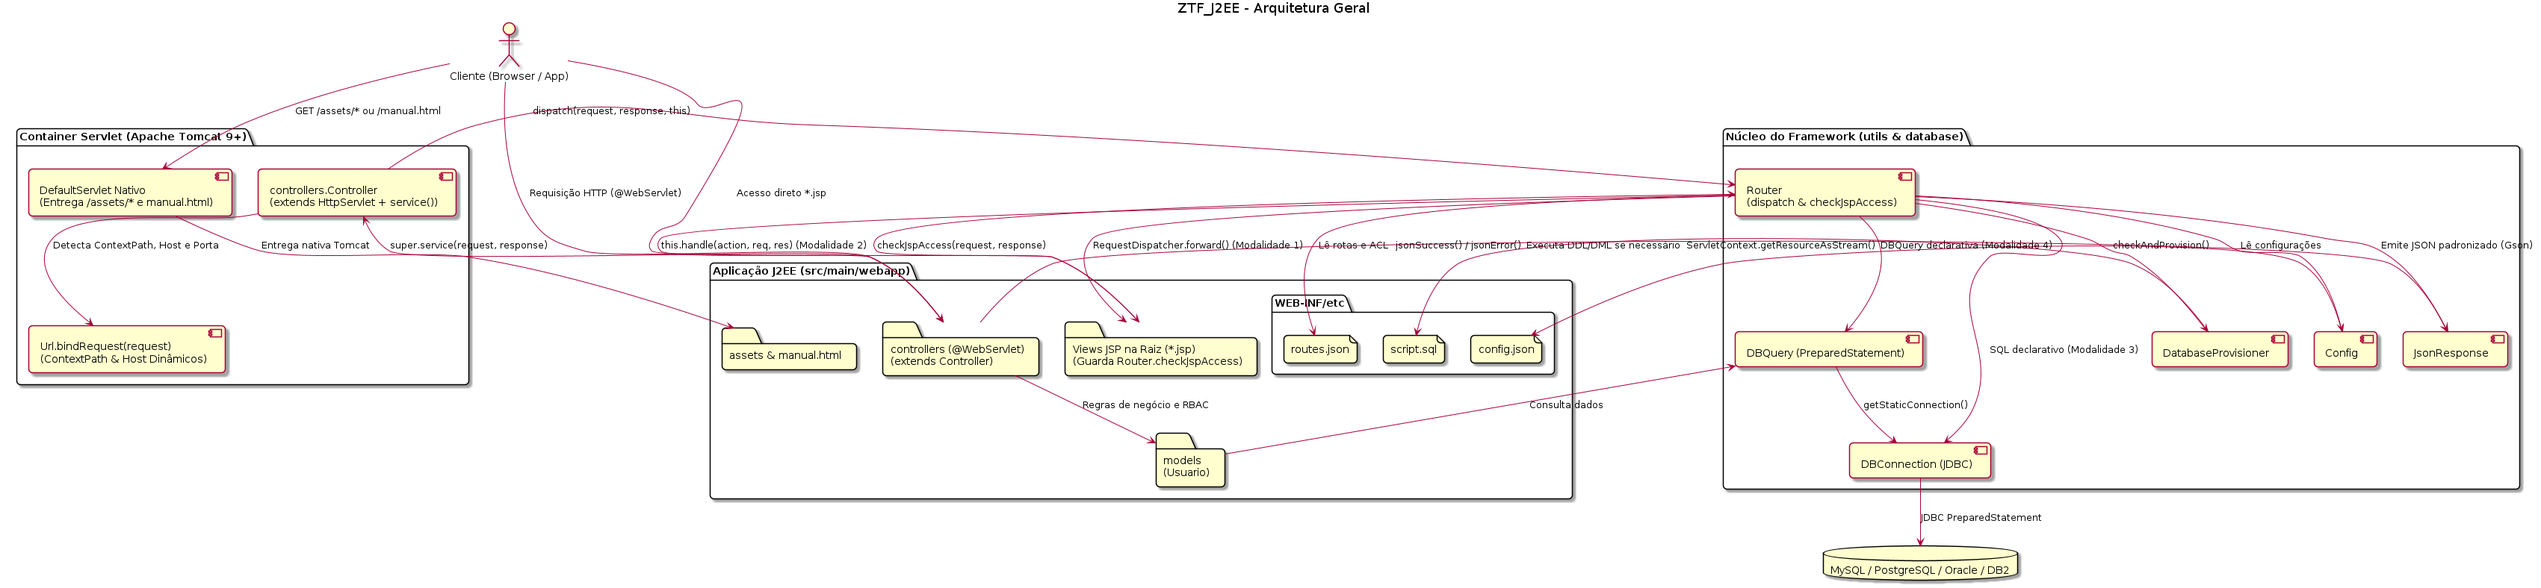
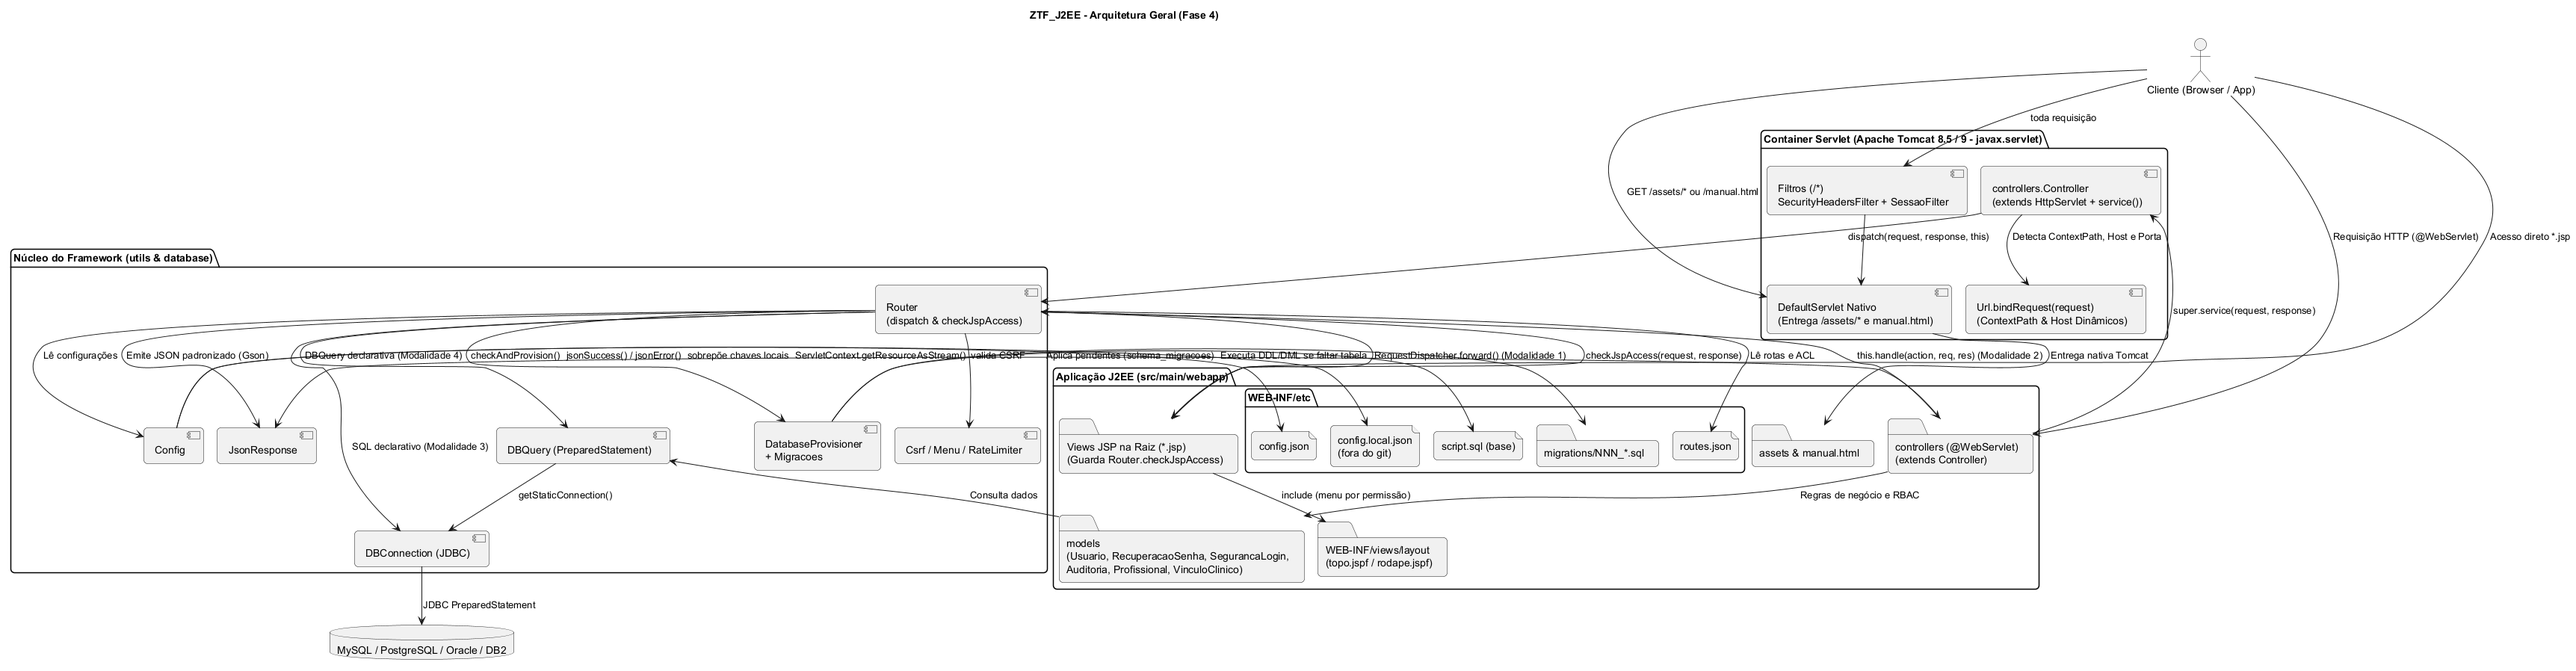
docs(fase4): diagramas do Router, autenticacao, arquitetura, classes e RBAC
- Router.puml: filtros, cache de rotas, CSRF, primeiro acesso, CORS, 500 generico
- Session_ACL.puml: sequencia de login com limite por IP, bloqueio, tempo
  equalizado, session fixation, CSRF, primeiro acesso e recarga da ACL
- Architecture, Classes_Map, Permissoes_RBAC e Banco_ER atualizados
- README: compatibilidade Tomcat 8.5/9 e JDK 21

diff --git a/README.md b/README.md
@@ -71,3 +71,9 @@ java -jar target/tools/plantuml-1.2024.7.jar -Playout=smetana -tpng -o ../../ass
 posterior em tabela existente (`ALTER TABLE`, índice, ajuste de dados) deve virar um arquivo novo em
 `WEB-INF/etc/migrations/NNN_descricao.sql`. O `DatabaseProvisioner` aplica cada arquivo uma única vez,
 em ordem, e registra em `schema_migracoes`. Nunca edite uma migração já aplicada: crie outra.
+
+### Tomcat compatível
+O projeto usa `javax.servlet` (Servlet 3.1+): funciona no **Tomcat 8.5 e 9**, rodando com **JDK 21**.
+Não funciona no Tomcat 10+ (que usa `jakarta.servlet`). No Tomcat 8.5 as JSPs são compiladas com
+sintaxe Java 7 por padrão; por isso o código das JSPs evita recursos mais novos (ex.: `new ArrayList<>()`
+dentro de expressão condicional).
